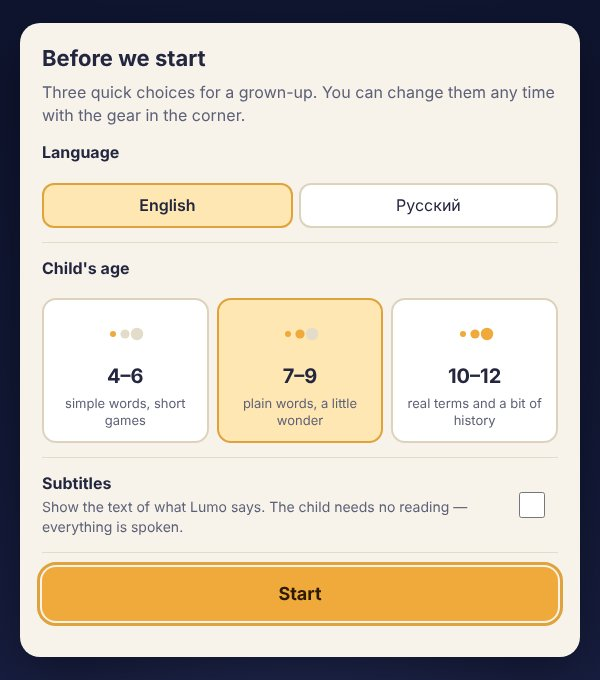
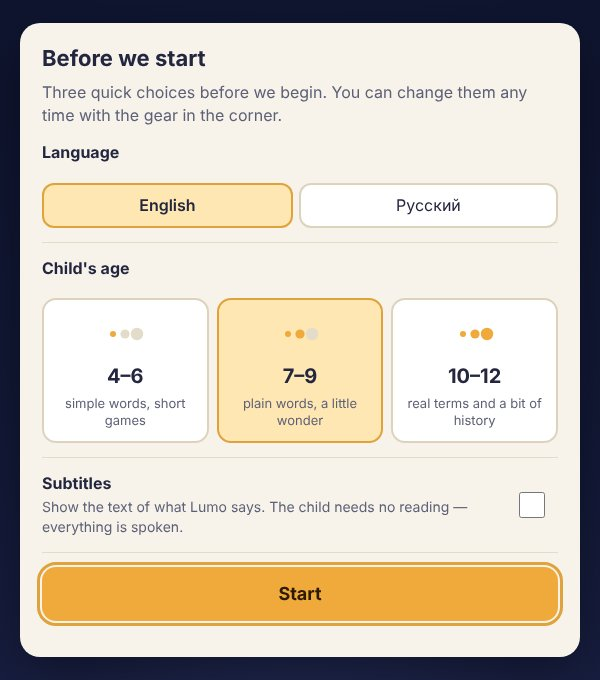
Rename "For grown-ups" to "Settings"
Settings are just settings — no split into grown-ups and children. The panel is now
"Settings" / "Настройки", the first-launch screen says "three quick choices before we
begin", and READMEs, docs and comments follow; the first-launch screenshots are retaken.

Claude-Session: https://claude.ai/code/session_013MeQZG7n1zYQE3UMNnsp52

Changed region(s): [[0.06, 0.1235, 0.93, 0.1853]]

diff --git a/web/src/setup.js b/web/src/setup.js
@@ -1,4 +1,4 @@
-// First launch: one short screen for a grown-up — language, the child's age, subtitles.
+// First launch: one short screen — language, the child's age, subtitles.
 // Everything is preselected (browser language, 7–9, no subtitles), so "Start" alone is fine.
 // It never shows again; the same settings live behind the gear.
 
@@ -8,7 +8,7 @@ import { h } from './ui.js';
 const T = {
   en: {
     title: 'Before we start',
-    lead: 'Three quick choices for a grown-up. You can change them any time with the gear in the corner.',
+    lead: 'Three quick choices before we begin. You can change them any time with the gear in the corner.',
     lang: 'Language',
     age: "Child's age",
     ages: {
@@ -22,7 +22,7 @@ const T = {
   },
   ru: {
     title: 'Перед началом',
-    lead: 'Три коротких вопроса для взрослого. Всё можно поменять в любой момент шестерёнкой в углу.',
+    lead: 'Три коротких вопроса перед началом. Всё можно поменять в любой момент шестерёнкой в углу.',
     lang: 'Язык',
     age: 'Возраст ребёнка',
     ages: {

diff --git a/web/style.css b/web/style.css
@@ -293,7 +293,7 @@ line.line, .cut, .diag-a, .diag-b { filter: url(#glow-line); } /* see #glow-line
 .plus .body { fill: var(--mint); filter: url(#glow); }
 .plus .ring { fill: rgba(123, 224, 176, .12); stroke: var(--mint); stroke-width: 2; stroke-dasharray: 4 6; }
 
-/* ---------- grown-ups' settings ---------- */
+/* ---------- settings ---------- */
 
 #settings, #setup {
   position: fixed;
@@ -345,7 +345,7 @@ line.line, .cut, .diag-a, .diag-b { filter: url(#glow-line); } /* see #glow-line
 .sheet .link { justify-self: start; color: #9a5a00; font-weight: 600; text-decoration: underline; text-underline-offset: 3px; }
 .sheet .reset { display: grid; gap: 8px; justify-items: start; }
 
-/* first launch: three quick choices for a grown-up */
+/* first launch: three quick choices */
 #setup { z-index: 40; background: radial-gradient(ellipse at 50% 120%, #26305e 0%, var(--night-2) 45%, var(--night) 100%); }
 .sheet .lead { color: #5d6077; }
 .sheet .ages { display: grid; grid-template-columns: repeat(3, minmax(0, 1fr)); gap: 8px; }

diff --git a/web/src/settings.js b/web/src/settings.js
@@ -1,4 +1,4 @@
-// The grown-ups' panel (the gear button). This is the only place in the portal with
+// The settings panel (the gear button). This is the only place in the portal with
 // words to read: the child never needs it.
 
 import { AGES } from './i18n.js';
@@ -9,7 +9,7 @@ const REPO = 'https://github.com/nemilya/math';
 
 const T = {
   ru: {
-    title: 'Для взрослых',
+    title: 'Настройки',
     close: 'Закрыть',
     age: 'Возраст ребёнка',
     ages: { small: '4–6 лет', middle: '7–9 лет', big: '10–12 лет' },
@@ -39,7 +39,7 @@ const T = {
     repo: 'Исходный код на GitHub',
   },
   en: {
-    title: 'For grown-ups',
+    title: 'Settings',
     close: 'Close',
     age: "Child's age",
     ages: { small: '4–6 years', middle: '7–9 years', big: '10–12 years' },

diff --git a/web/src/app.js b/web/src/app.js
@@ -61,7 +61,7 @@ $('btn-home').addEventListener('click', () => {
   goSky();
 });
 
-// Grown-ups' settings: age, language, hints, subtitles, microphone, the album of recordings.
+// Settings: age, hints, subtitles, microphone, the album of recordings.
 const settings = createSettings({
   host: $('settings'),
   i18n,
@@ -200,7 +200,7 @@ async function start() {
   i18n.age = AGES.includes(store.data.age) ? store.data.age : 'middle';
   await setLang(pickLang(params.get('lang'), store.data.lang));
 
-  // The very first launch: a grown-up picks language, age and subtitles (all preselected).
+  // The very first launch: pick language, age and subtitles (all preselected).
   if (!store.data.setupDone && !fast) {
     screen = 'setup';
     await runSetup({ host: $('setup'), i18n, store, onLang: chooseLang });

diff --git a/web/src/store.js b/web/src/store.js
@@ -5,7 +5,7 @@ const KEY = 'lumo.v1';
 
 const blank = () => ({
   lang: null,
-  // settings for grown-ups
+  // settings
   age: 'middle', // 'small' 4–6, 'middle' 7–9, 'big' 10–12 — changes Lumo's words
   hints: true, // Lumo offers a hint (once) when the child is quiet for a while
   mic: true, // invite the child to explain out loud
@@ -64,7 +64,7 @@ export const store = {
     data.mine.push(star);
     save();
   },
-  // Forget progress (stars, guesses, own questions) but keep the grown-ups' settings.
+  // Forget progress (stars, guesses, own questions) but keep the settings.
   resetProgress() {
     Object.assign(data, { greeted: false, lit: {}, unlocked: {}, mem: {}, mine: [] });
     save();

diff --git a/web/index.html b/web/index.html
@@ -47,7 +47,7 @@
   <div id="topbar">
     <button id="btn-home" class="btn small" hidden aria-label="Home"></button>
     <div id="langs" class="langs" role="group" aria-label="Language"></div>
-    <button id="btn-settings" class="btn small" aria-label="Settings for grown-ups"></button>
+    <button id="btn-settings" class="btn small" aria-label="Settings"></button>
   </div>
   <div id="settings" hidden></div>
   <div id="setup" class="sheet" hidden></div>

diff --git a/web/src/ui.js b/web/src/ui.js
@@ -27,7 +27,7 @@ export function button(icon, cls = '', label = '') {
   return b;
 }
 
-// Tiny DOM builder for the grown-ups' screens: h('button', { class: 'x', onclick }, 'text', child…)
+// Tiny DOM builder for the settings screens: h('button', { class: 'x', onclick }, 'text', child…)
 export const h = (tag, attrs = {}, ...kids) => {
   const e = document.createElement(tag);
   for (const [k, v] of Object.entries(attrs)) {

diff --git a/README.ru.md b/README.ru.md
@@ -39,16 +39,16 @@ make serve                # http://localhost:8000  (или: npm start, или py
 Откройте на планшете или компьютере, нажмите на спящего Лумо — и он проснётся.
 Лучше всего — в альбомной ориентации и со звуком. `make help` — все команды.
 
-## Для взрослых
+## Настройки
 
 <img src="docs/img/ru/setup.jpg" alt="Первый запуск" width="420" align="right">
 
-* **Первый запуск** — один короткий экран для взрослого: язык, возраст ребёнка, субтитры.
+* **Первый запуск** — один короткий экран: язык, возраст ребёнка, субтитры.
   Всё уже выбрано по умолчанию (язык браузера, 7–9 лет, без субтитров) — можно сразу нажать
   «Начать». Показывается один раз, дальше те же настройки — за шестерёнкой.
 * **Язык** — переключатель EN / RU вверху справа (как в проекте `education`:
   `?lang=` → последний выбор → язык браузера → английский; выбор попадает в адрес).
-* **Шестерёнка** открывает панель для взрослых — единственное место с текстом:
+* **Шестерёнка** открывает настройки — единственное место с текстом:
   * **возраст ребёнка** — 4–6, 7–9 или 10–12 лет. Меняет слова Лумо: малышам — проще и
     короче (и игры короче), старшим — настоящие названия (диагональ, параллелограмм,
     кратные числа) и немного истории (Фалес, Евклид, откуда формула площади треугольника);
@@ -118,5 +118,5 @@ make dist                 # → dist/ и dist.zip
 * голос Лумо — нейросинтез (Gemini TTS) для всех реплик, английский и русский;
 * три возраста: Лумо говорит с малышами проще, со старшими — точнее и с историей;
 * подсказки только при молчании — каждая один раз, можно выключить;
-* запись объяснений, идей и собственных вопросов голосом ребёнка — только на устройстве, с альбомом для взрослых;
+* запись объяснений, идей и собственных вопросов голосом ребёнка — только на устройстве, с альбомом в настройках;
 * `make dist` — готовая папка для любого хостинга.

diff --git a/README.md b/README.md
@@ -39,16 +39,16 @@ make serve                # http://localhost:8000  (or: npm start, or python3 -m
 Open it on a tablet or a computer and tap the sleeping Lumo to wake him up. Best in landscape,
 with sound on. `make help` lists all commands.
 
-## For grown-ups
+## Settings
 
 <img src="docs/img/en/setup.jpg" alt="First launch" width="420" align="right">
 
-* **First launch** — one short screen for a grown-up: language, the child's age, subtitles.
+* **First launch** — one short screen: language, the child's age, subtitles.
   Everything is preselected (browser language, 7–9, no subtitles), so "Start" alone is fine.
   It is shown once; afterwards the same settings live behind the gear.
 * **Language** — the EN / RU switcher in the top bar (as in the `education` project:
   `?lang=` → last choice → browser language → English; the choice goes into the address).
-* **The gear** opens the grown-ups' panel — the only place with text to read:
+* **The gear** opens the settings — the only place with text to read:
   * **child's age** — 4–6, 7–9 or 10–12. Changes Lumo's words: simpler and shorter for little
     ones (and shorter games), real names (diagonal, parallelogram, multiples) and a bit of
     history (Thales, Euclid, where the triangle-area formula comes from) for older children;
@@ -118,5 +118,5 @@ build your own adventures on it. The gear icon is from [Feather Icons](https://f
 * Lumo's voice — neural TTS for every line, English and Russian;
 * three age bands: Lumo talks more simply with little ones and more precisely, with history, with older ones;
 * hints only on silence — each once, can be switched off;
-* explanations, ideas and the child's own questions recorded in their voice — on the device only, with an album for grown-ups;
+* explanations, ideas and the child's own questions recorded in their voice — on the device only, with an album in the settings;
 * `make dist` — a ready folder for any host.

diff --git a/docs/ru/ROADMAP.md b/docs/ru/ROADMAP.md
@@ -27,7 +27,7 @@
 
 - [x] **Качественная озвучка**: все реплики — Gemini TTS через OpenRouter, с проверкой распознаванием (`make voice`)
 - [x] **Три возраста** (4–6, 7–9, 10–12): меняются слова Лумо, идеи остаются
-- [x] **Панель для взрослых**: возраст, подсказки, субтитры, микрофон, альбом открытий, начать сначала
+- [x] **Панель настроек**: возраст, подсказки, субтитры, микрофон, альбом открытий, начать сначала
 - [x] **Спокойные подсказки**: каждая один раз, можно выключить
 - [x] **Папка для хостинга**: `make dist` → `dist/` + `dist.zip`, работает из любой подпапки
 - [ ] **Послушать голос и настроить**: выбрать между голосами, подправить описание персонажа,

diff --git a/docs/ru/ARCHITECTURE.md b/docs/ru/ARCHITECTURE.md
@@ -17,7 +17,7 @@ web/
     voice.js            голос: готовые файлы → синтез браузера → тишина + субтитры
     i18n.js             языки, возрастные версии реплик
     setup.js            первый запуск: язык, возраст, субтитры (один раз)
-    settings.js         панель для взрослых (шестерёнка): возраст, подсказки, субтитры, микрофон, альбом
+    settings.js         настройки (шестерёнка): возраст, подсказки, субтитры, микрофон, альбом
     recorder.js         голос ребёнка: запись и хранение (только на устройстве)
     store.js            что ребёнок исследовал + настройки (localStorage)
     sfx.js              звуки, синтезированные на лету (WebAudio)

diff --git a/docs/ru/VISION.md b/docs/ru/VISION.md
@@ -44,7 +44,7 @@
 
 1. **Всё голосом.** Ребёнку не нужно уметь читать. Всё, что нужно понять, — Лумо
    говорит. Всё, что нужно нажать, — картинка. Тап по Лумо — повторить последнюю
-   фразу. Субтитры — только опция для взрослых и слабослышащих.
+   фразу. Субтитры — только опция: для тех, кто любит читать вслед, и для слабослышащих.
 2. **Вопрос раньше ответа.** Сначала «интересно, а сколько?..», потом догадка,
    потом игра, потом идея.
 3. **Никакого «неправильно».** Есть «интересная догадка», «хм, пока не видно»,
